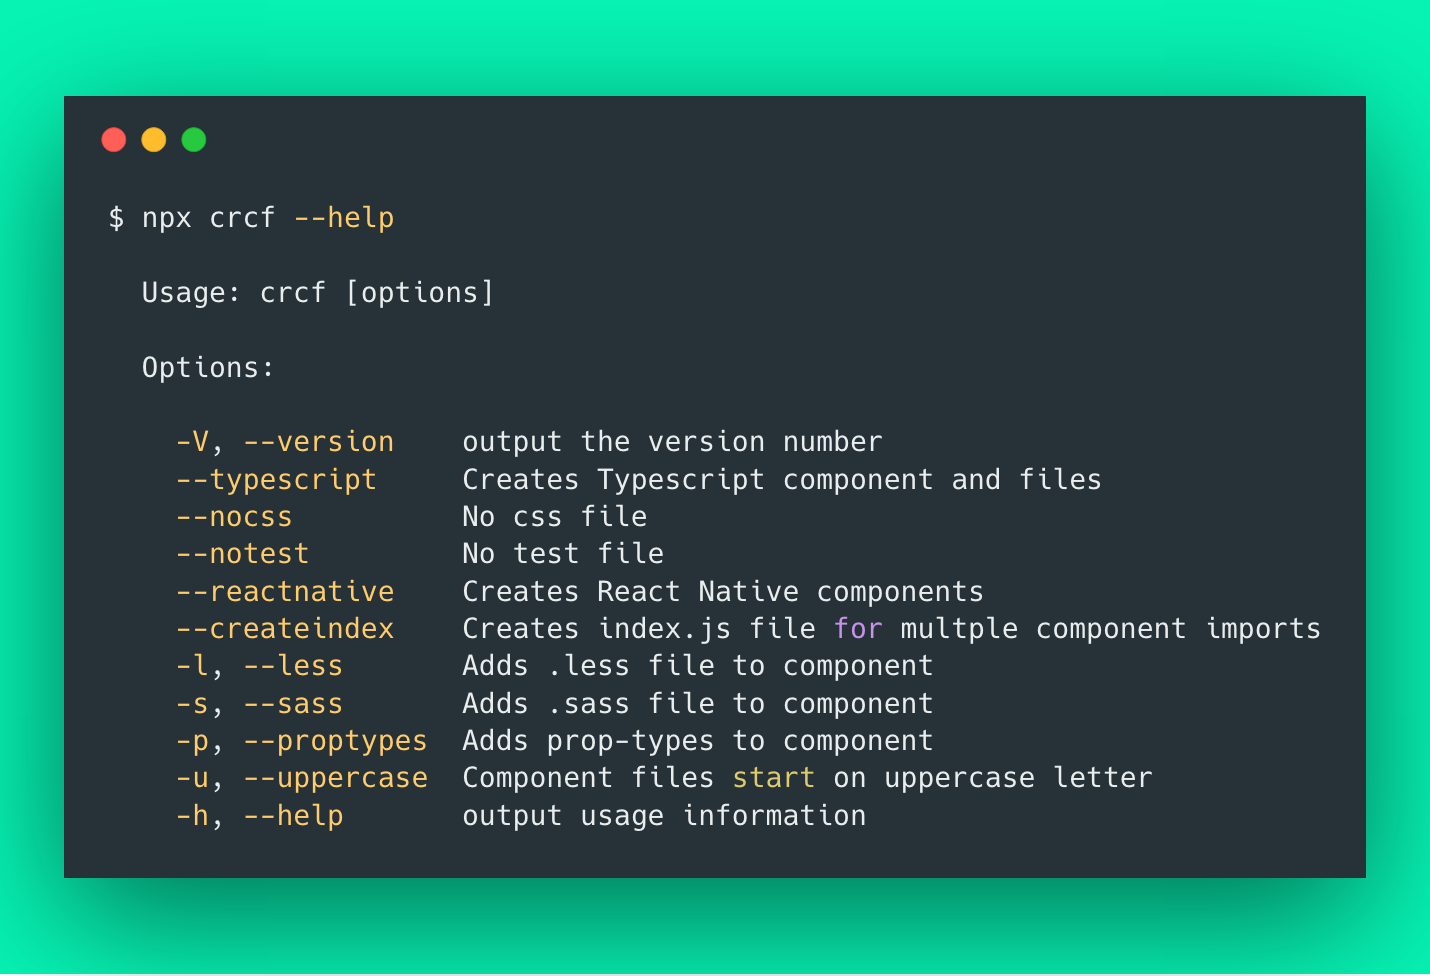
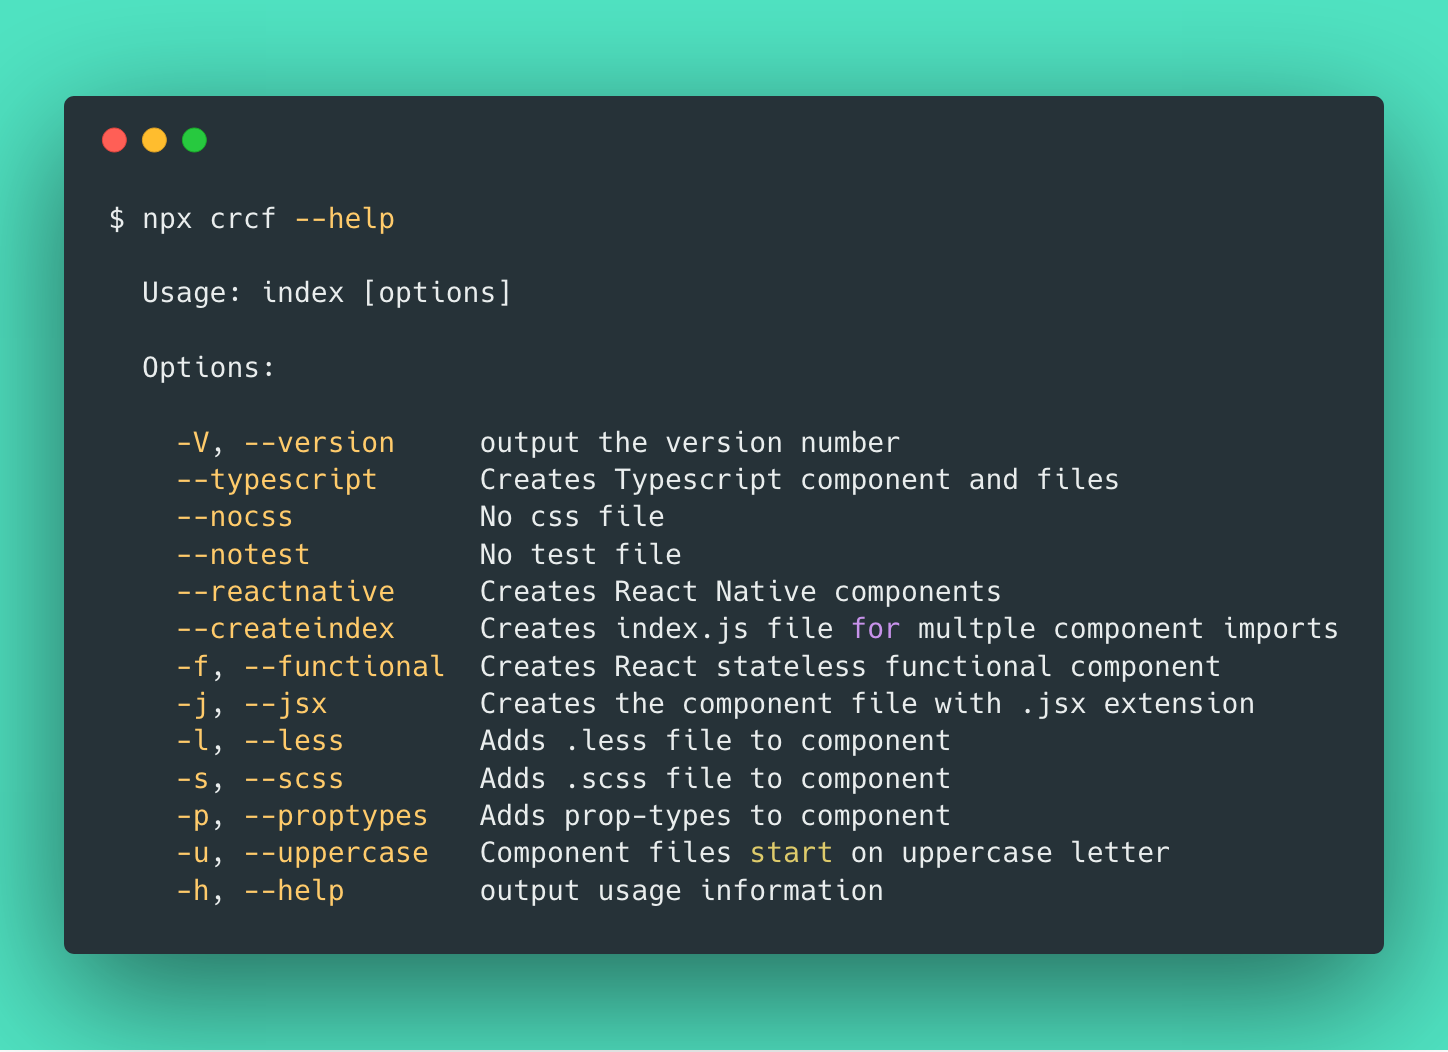
Added functional component template and updated docs

diff --git a/lib/index.js b/lib/index.js
@@ -7,10 +7,12 @@ const logger = require('./logger');
 const fs = require('./utils/fileHelpers');
 const {
   createReactComponent,
+  createReactFunctionalComponent,
   createReactNativeComponent,
   createTypeScriptReactComponent,
   createTypeScriptReactNativeComponent,
   createReactComponentWithProps,
+  createReactFunctionalComponentWithProps,
   createReactNativeComponentWithProps,
   createIndex,
   createTest,
@@ -25,6 +27,7 @@ const isLetter = require('./utils/isLetter');
 const removeOptionsFromArgs = require('./utils/removeOptionsFromArgs');
 const createMultiIndex = require('./utils/createMultiIndex');
 const logComponentTree = require('./utils/logComponentTree');
+const validateArguments = require('./utils/validateArguments');
 
 // Root directorys
 const ROOT_DIR = process.cwd();
@@ -41,6 +44,7 @@ program
   .option('--notest', 'No test file')
   .option('--reactnative', 'Creates React Native components')
   .option('--createindex', 'Creates index.js file for multple component imports')
+  .option('-f, --functional', 'Creates React stateless functional component')
   .option('-j, --jsx', 'Creates the component file with .jsx extension')
   .option('-l, --less', 'Adds .less file to component')
   .option('-s, --scss', 'Adds .scss file to component')
@@ -107,7 +111,11 @@ function createFiles(componentName, componentPath, cssFileExt) {
             data = createIndex(name, program.uppercase);
             promises.push(fs.writeFileAsync(filePath, isTypeScript ? data : format.formatPrettier(data)));
           } else if (file === `${name}.${ext}` || file === `${name}.${jsxExt}`) {
-            if (isTypeScript) {
+            if (program.functional) {
+              data = program.proptypes
+                ? createReactFunctionalComponentWithProps(name)
+                : createReactFunctionalComponent(name);
+            } else if (isTypeScript) {
               data = isNative
                 ? createTypeScriptReactNativeComponent(name)
                 : createTypeScriptReactComponent(name);
@@ -162,22 +170,12 @@ function initialize() {
     return;
   }
 
-  if (args.length === 0) {
-    logger.warn("You didn't supply component name as an argument.");
-    logger.log('Please try "crcf componentName" or "create-react-component-folder componentName"');
+  const isValidArgs = validateArguments(args, program);
+
+  if (!isValidArgs) {
     return;
   }
 
-  if (args[0] === 'index') {
-    logger.log();
-    logger.warn('You cannot name your component index');
-    logger.log();
-    logger.log('Please choose a more descriptive name');
-    logger.log();
-    return;
-  }
-
-  // Check if folder exists
   fs
     .existsSyncAsync(componentPath)
     .then(() => {

diff --git a/lib/data/componentData.js b/lib/data/componentData.js
@@ -24,6 +24,30 @@ class ${name} extends Component {
 export default ${name};
   `;
 }
+
+/**
+ * Creates React stateless functional component
+ *
+ * @param {String} componentName - Component name
+ * @returns {String}
+ */
+function createReactFunctionalComponent(componentName) {
+  const name = stringHelper.capitalizeFirstLetter(componentName);
+
+  return `import React from 'react';
+
+const ${name} = () => {
+  return (
+    <div>
+      ${name}
+    </div>
+  );
+}
+
+export default ${name};
+  `;
+}
+
 /**
  * Creates default React Native component
  *
@@ -132,6 +156,34 @@ export default ${name};
 }
 
 /**
+ * Creates React stateless functional component with prop types
+ *
+ * @param {String} componentName - Component name
+ * @returns {String}
+ */
+function createReactFunctionalComponentWithProps(componentName) {
+  const name = stringHelper.capitalizeFirstLetter(componentName);
+
+  return `import React from 'react';
+import PropTypes from 'prop-types';
+
+const ${name} = () => {
+  return (
+    <div>
+      ${name}
+    </div>
+  );
+}
+
+${name}.propTypes = {
+
+};
+
+export default ${name};
+  `;
+}
+
+/**
  * Creates default index file
  *
  * @param {String} componentName - Component name
@@ -221,10 +273,12 @@ describe('<${componentNameUpperCase} />', () => {
 
 module.exports = {
   createReactComponent,
+  createReactFunctionalComponent,
   createReactNativeComponent,
   createTypeScriptReactComponent,
   createTypeScriptReactNativeComponent,
   createReactComponentWithProps,
+  createReactFunctionalComponentWithProps,
   createReactNativeComponentWithProps,
   createIndex,
   createIndexForFolders,

diff --git a/lib/utils/validateArguments.js b/lib/utils/validateArguments.js
@@ -1,0 +1,46 @@
+const logger = require('../logger');
+
+/**
+ * Validates command line arguments from user
+ *
+ * @param {Array} args - Node process args array
+ * @param {Object} program - Commander program object
+ * @returns {Boolean}
+ */
+function validateArguments(args, program) {
+  if (args.length === 0) {
+    logger.error("You didn't supply component name as an argument.");
+    logger.log('Please try "crcf componentName" or "create-react-component-folder componentName"');
+    return false;
+  }
+
+  if (args[0] === 'index') {
+    logger.log();
+    logger.error('You cannot name your component index');
+    logger.log('Please choose a more descriptive name');
+    logger.log();
+    return false;
+  }
+
+  if (program.typescript && program.jsx) {
+    logger.log();
+    logger.error('You cannot have a JSX and Typescript option at the same time');
+    return false;
+  }
+
+  if (program.typescript && program.reactnative) {
+    logger.log();
+    logger.error('You cannot have a React Native and Typescript option at the same time');
+    return false;
+  }
+
+  if (program.jsx && program.reactnative) {
+    logger.log();
+    logger.error('You cannot have a React Native and JSX option at the same time');
+    return false;
+  }
+
+  return true;
+}
+
+module.exports = validateArguments;

diff --git a/README.md b/README.md
@@ -85,6 +85,28 @@ $ npx crcf --createindex
 <img src='https://github.com/snaerth/create-react-component-folder/blob/master/docs/help.png?raw=true' width='600'/>
 </p>
 
+```sh
+$ npx crcf --help
+
+  Usage: index [options]
+
+  Options:
+
+    -V, --version     output the version number
+    --typescript      Creates Typescript component and files
+    --nocss           No css file
+    --notest          No test file
+    --reactnative     Creates React Native components
+    --createindex     Creates index.js file for multple component imports
+    -f, --functional  Creates React stateless functional component
+    -j, --jsx         Creates the component file with .jsx extension
+    -l, --less        Adds .less file to component
+    -s, --scss        Adds .scss file to component
+    -p, --proptypes   Adds prop-types to component
+    -u, --uppercase   Component files start on uppercase letter
+    -h, --help        output usage information
+```
+
 ## Author
 
 * [Snær Seljan Þóroddsson](https://github.com/snaerth)
